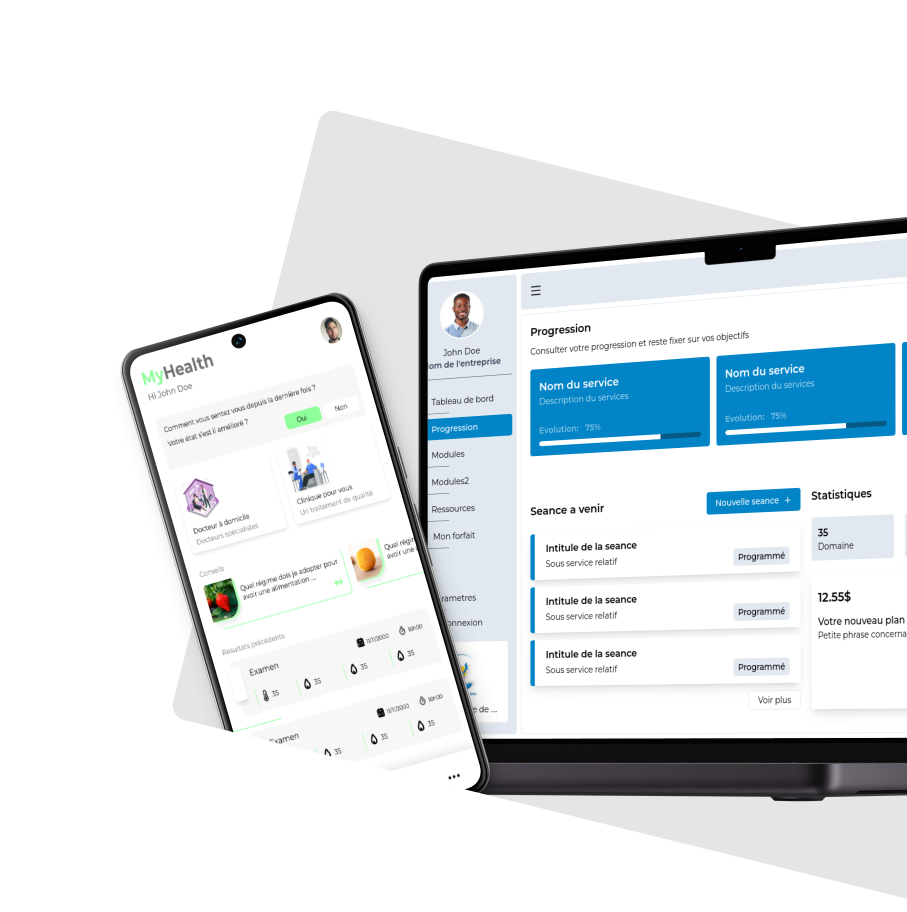
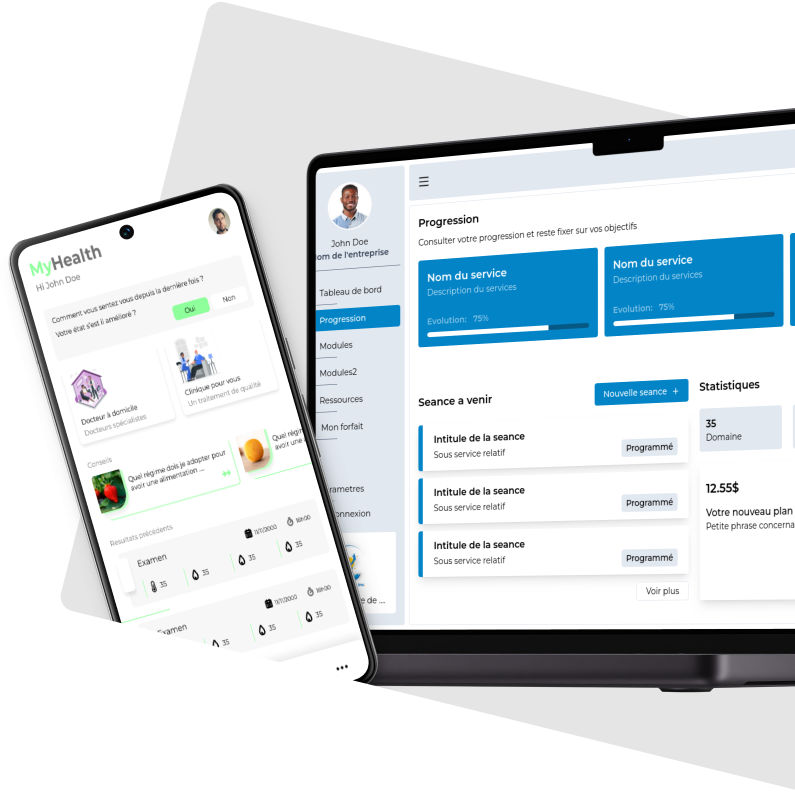
commit

diff --git a/pages/index.jsx b/pages/index.jsx
@@ -68,7 +68,7 @@ function SamplexStartPage() {
               // width={100}
               blurDataURL="data:..."
               placeholder="blur" // Optional blur-up while loading
-              className="absolute -top-40 -right-14 w-2/3"
+              className="absolute -top-14 -right-14 w-3/5"
             ></Image>
           </div>
         </div>
